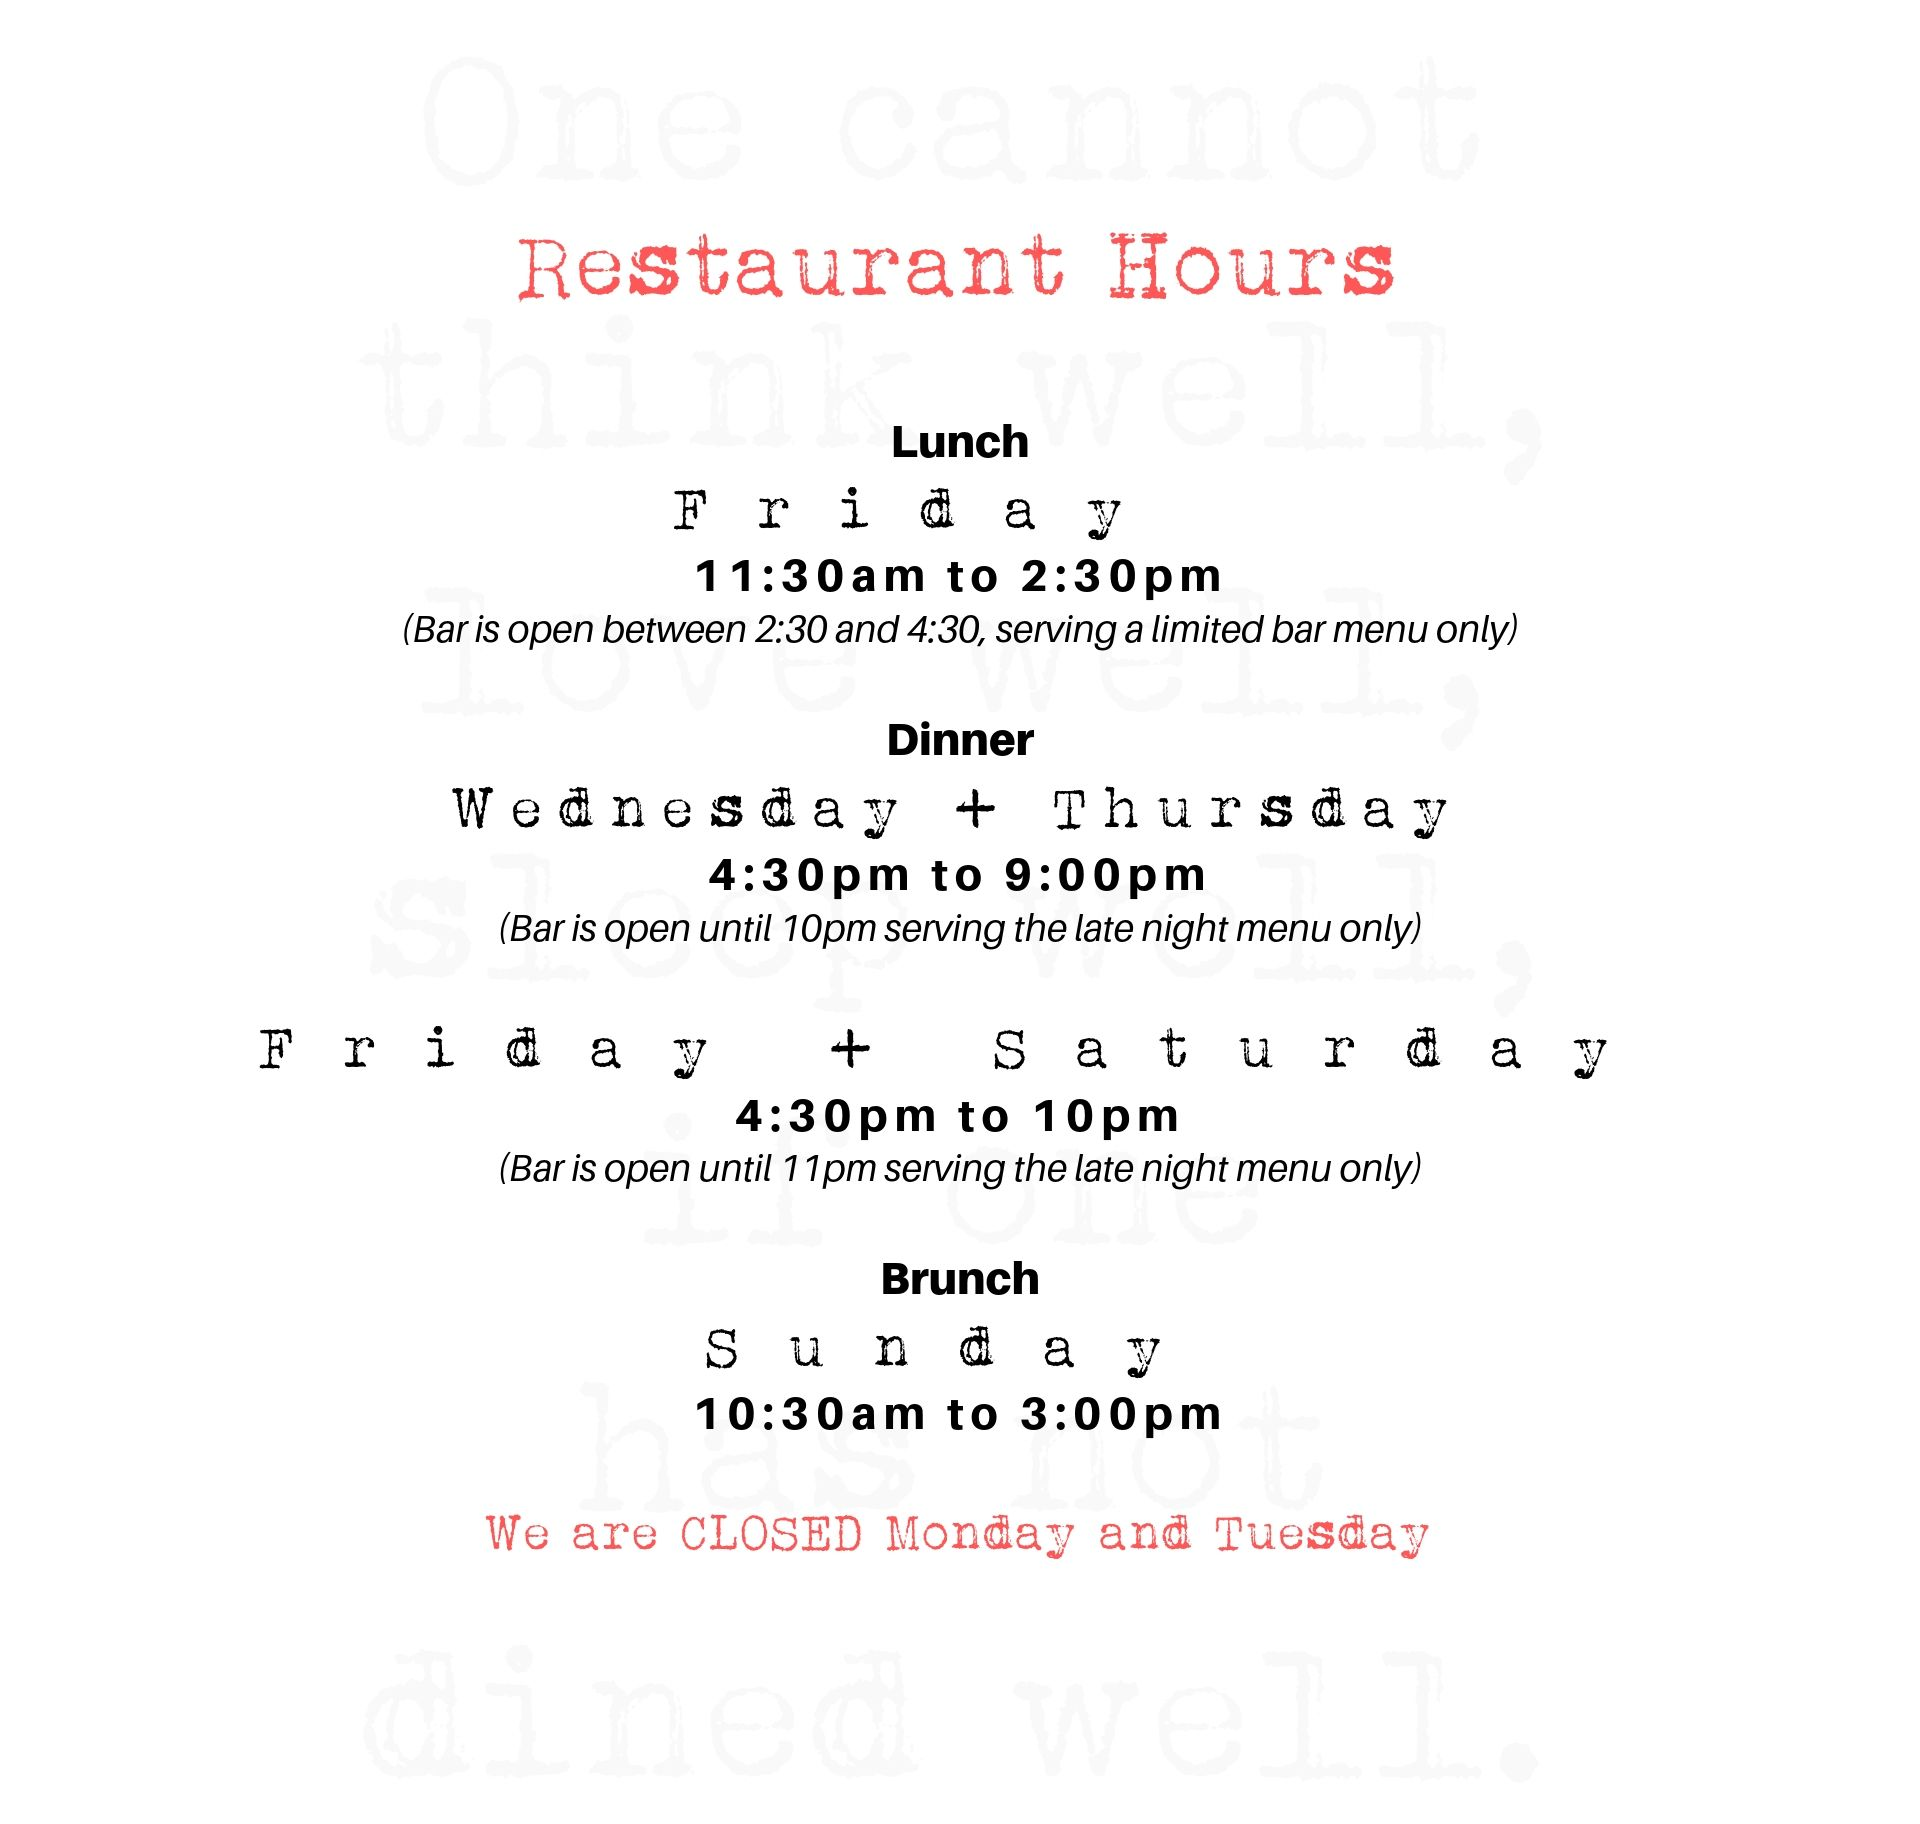
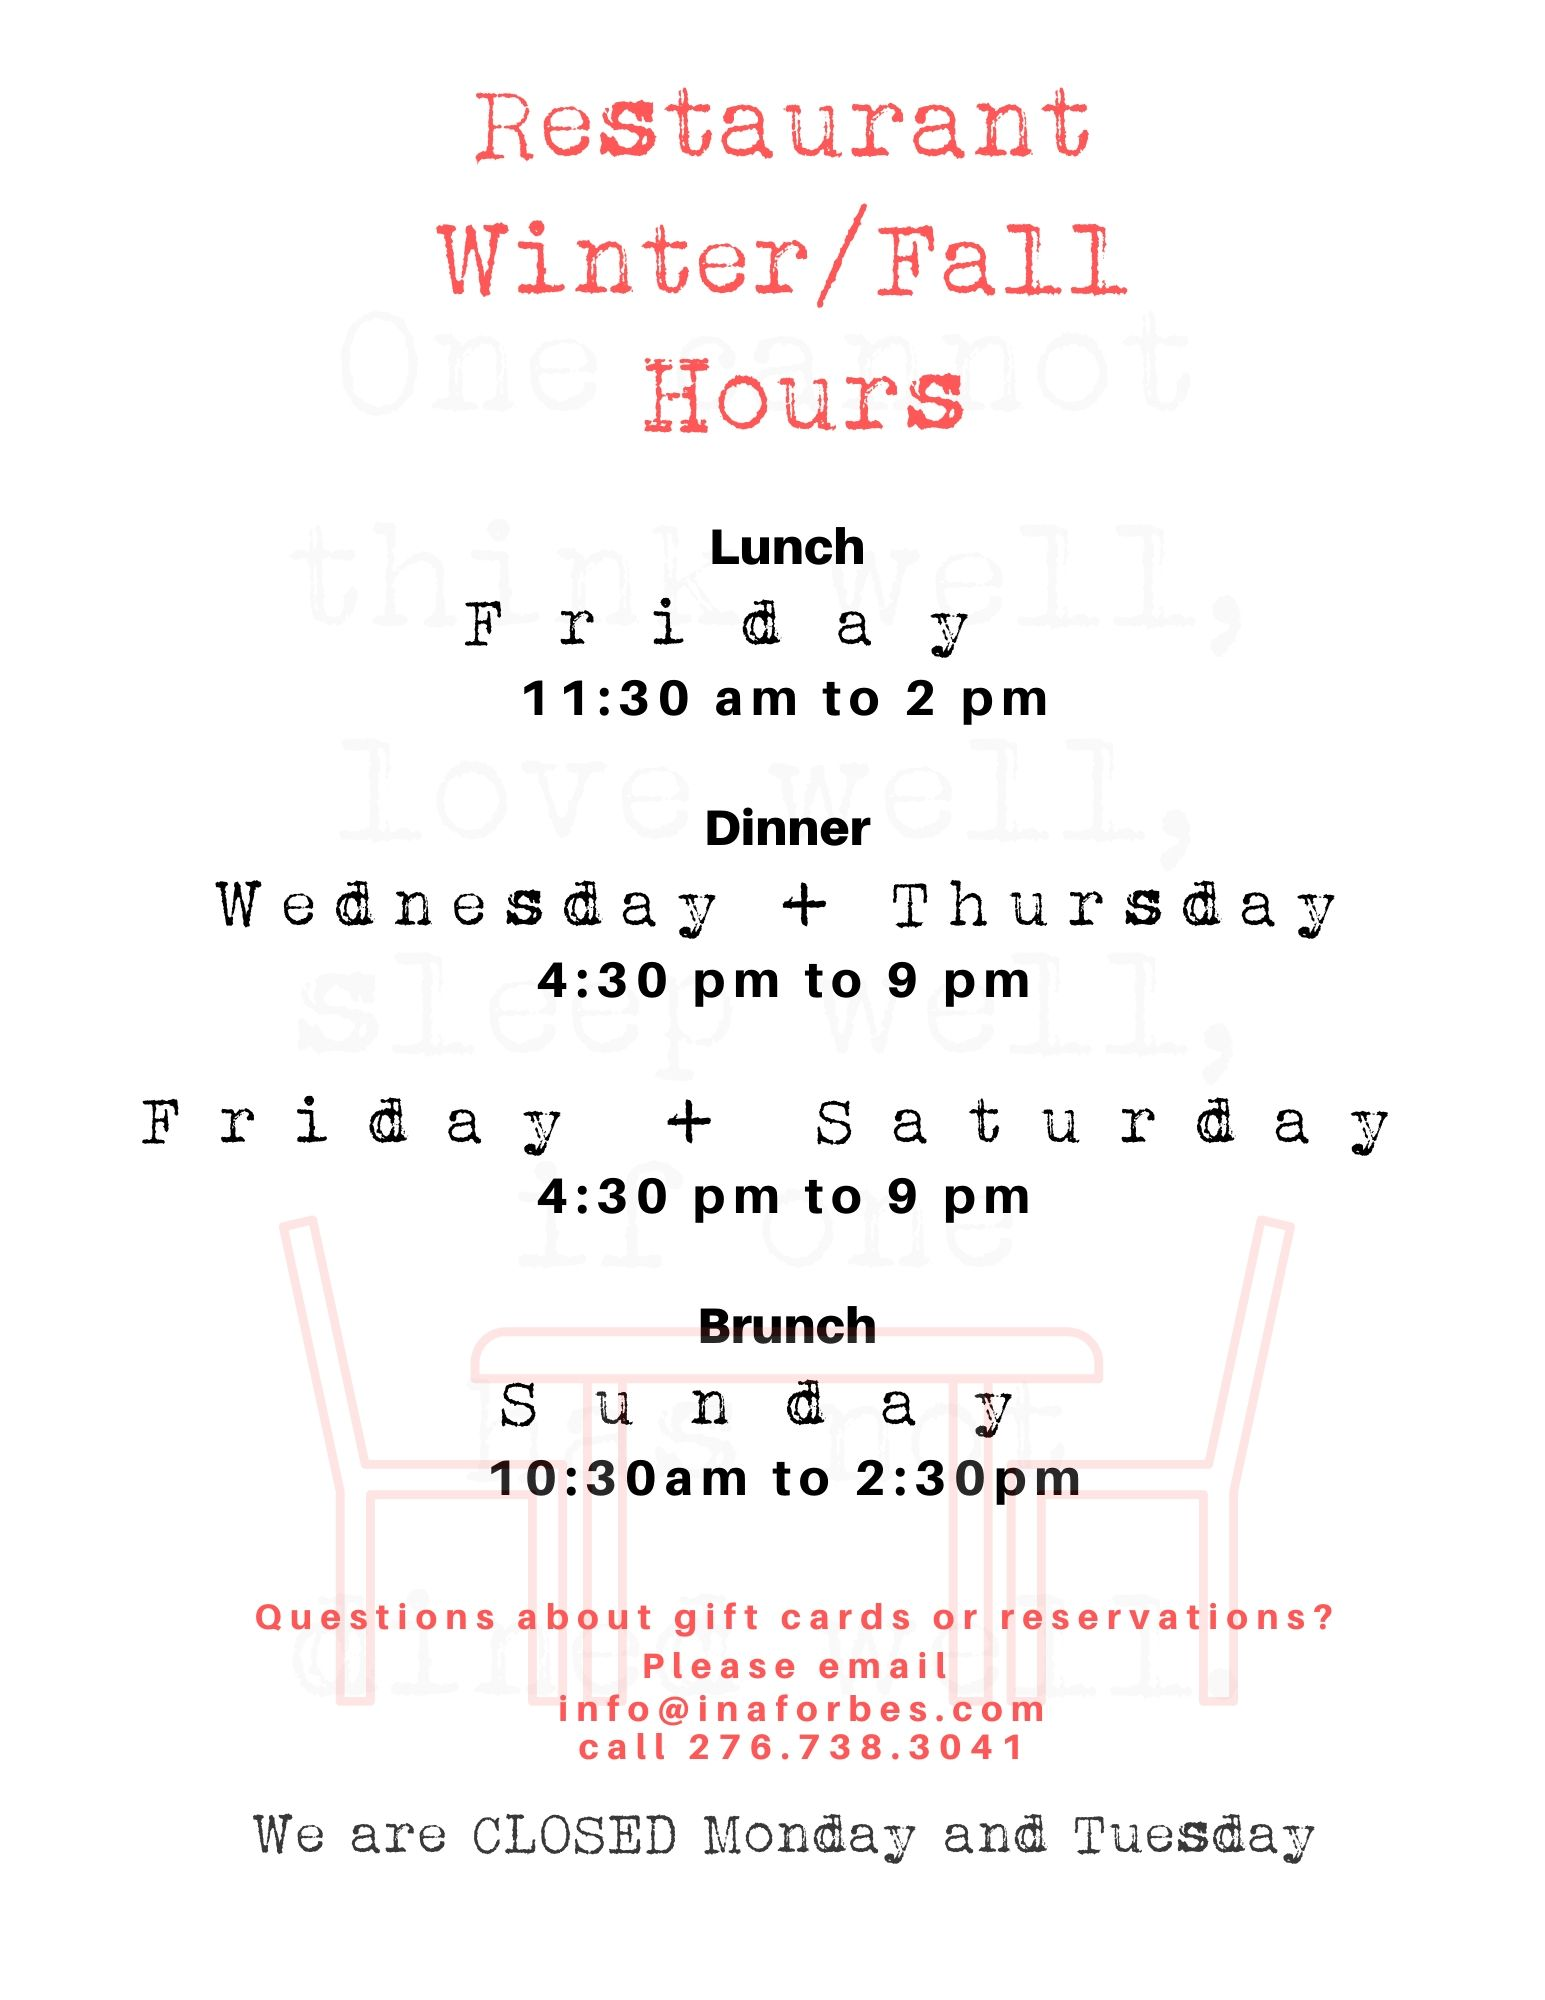
fall hours update

diff --git a/src/Home.js b/src/Home.js
@@ -3,6 +3,7 @@ import Carousel from './carousel/Carousel';
 import { Container, Row, Col, } from 'react-bootstrap';
 import HomeMain from './images/HomeMain.jpg';
 import fallCalendar from './images/fallCalendar.jpg';
+import fallHours from './images/fallHours.jpg';
 import SitL from './images/SitL.png';
 
 
@@ -24,7 +25,7 @@ class Home extends React.Component {
                                     className="Gallery"
                                     justifyContent="center" 
                                     flexdirection="column"
-                                    alt="GrandOpeningEvent"
+                                    alt="Only@Ina's"
                                     src={HomeMain}
                                     style={styles.image}
                                     />
@@ -39,6 +40,18 @@ class Home extends React.Component {
                                     flexdirection="column"
                                         alt="autumn calendar"
                                         src={fallCalendar}
+                                        style={styles.image}
+                                    />
+                                </Col>
+                            </Row>
+                            <Row className="justify-content-space-evenly">
+                                <Col>
+                                    <img
+                                    className="Gallery"
+                                    justifyContent="center" 
+                                    flexdirection="column"
+                                        alt="fall Hours"
+                                        src={fallHours}
                                         style={styles.image}
                                     />
                                 </Col>
